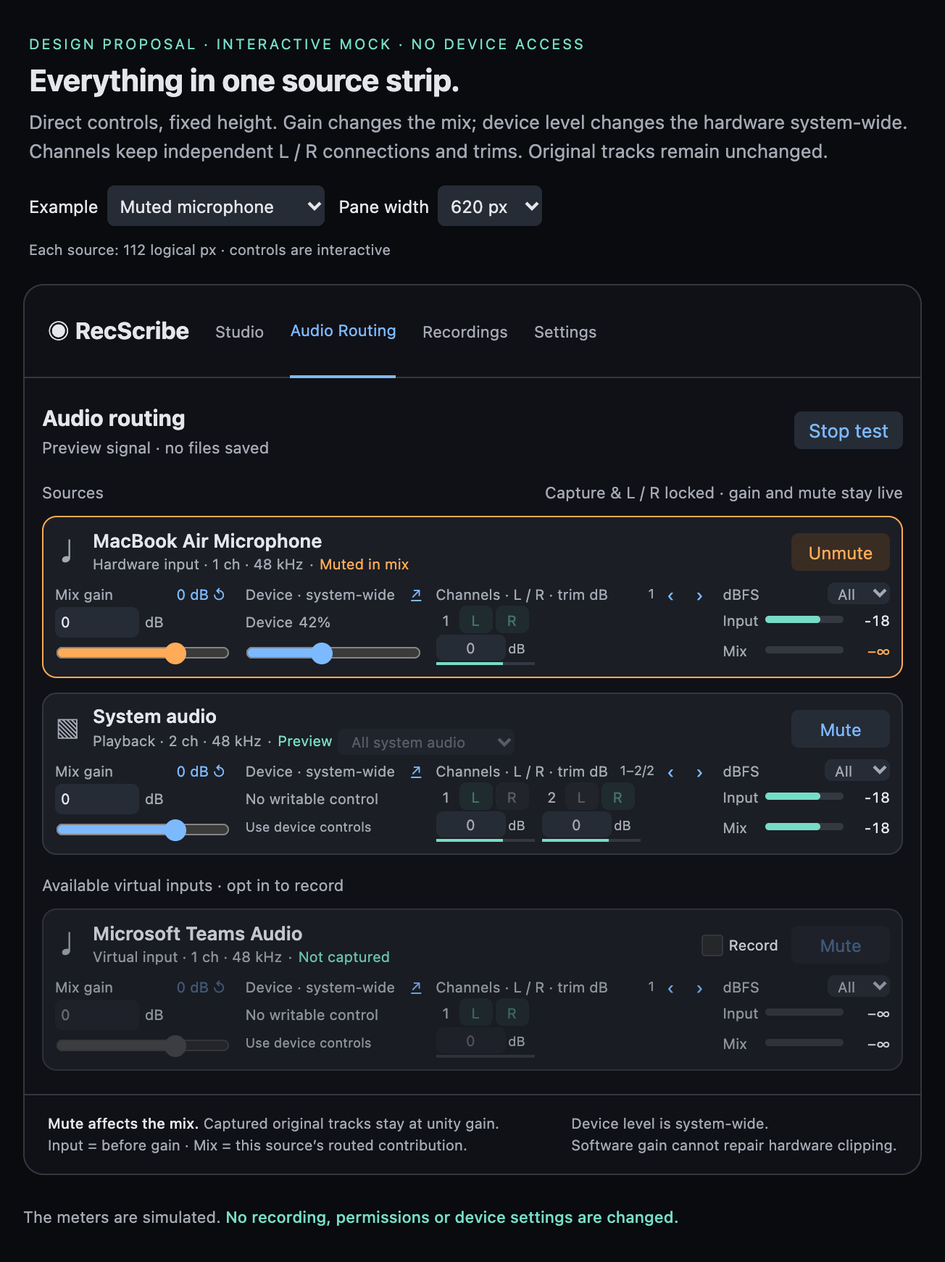
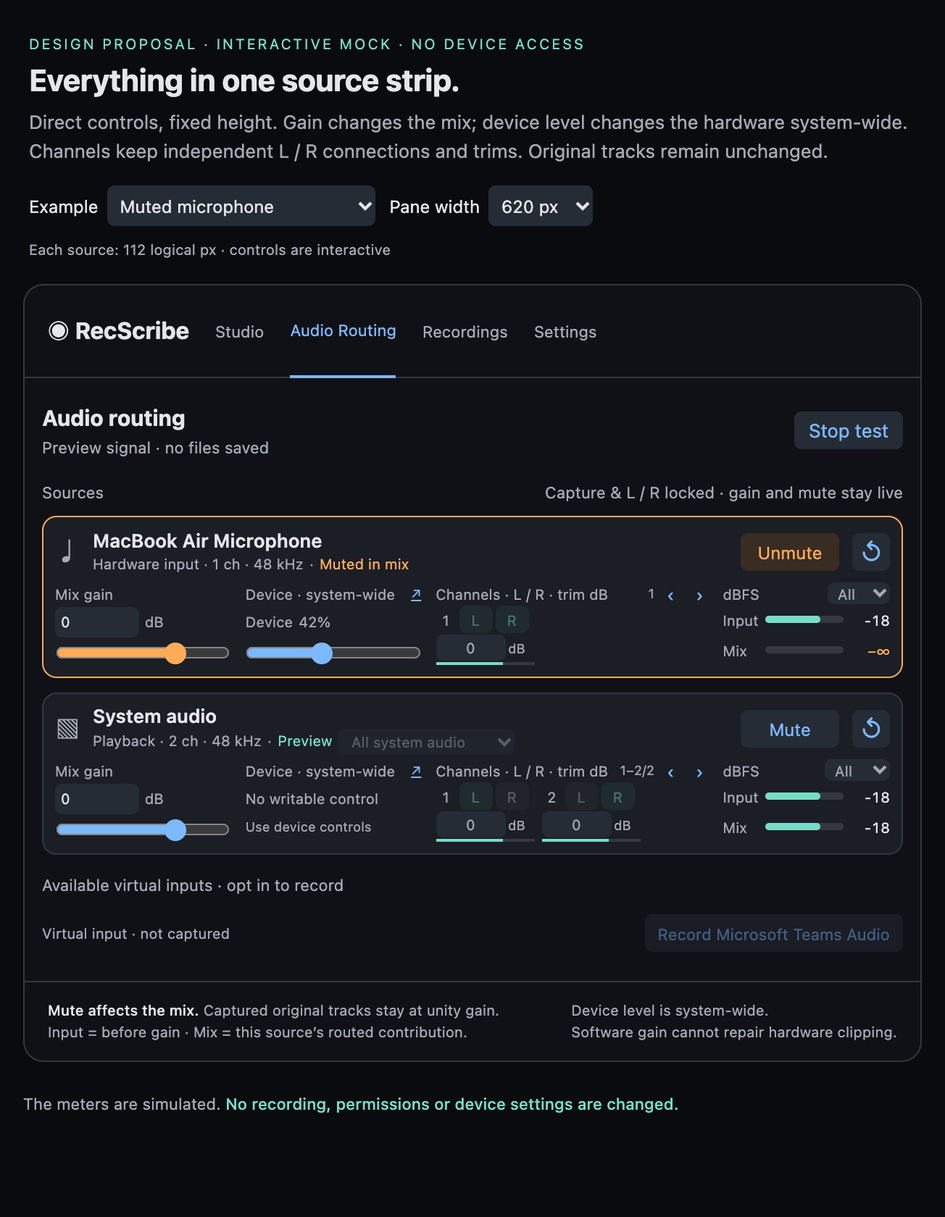
docs(design): align compact sources with PR 78 capture actions

diff --git a/docs/design-proposals/compact-source-strip/source-strip.html b/docs/design-proposals/compact-source-strip/source-strip.html
@@ -6,15 +6,15 @@
 <style>
 :root{color-scheme:dark;--bg:#101116;--card:#1b1e25;--line:#34373e;--text:#e5e6eb;--dim:#a4a9b4;--blue:#7db9ff;--mint:#77dcc7;--orange:#ffab57}
 *{box-sizing:border-box}body{margin:0;background:#090b0e;color:var(--text);font:13px -apple-system,BlinkMacSystemFont,"Segoe UI",sans-serif}button,input,select{font:inherit;color:inherit}button,select,input[type=number]{background:#262c36;border:1px solid transparent;border-radius:5px}button,select{cursor:pointer}button{height:26px;padding:0 9px;color:var(--blue)}button:hover{background:#303b4a}button:focus-visible,input:focus-visible,select:focus-visible,a:focus-visible,[tabindex]:focus-visible{outline:2px solid var(--blue);outline-offset:2px}button:disabled,input:disabled,select:disabled{cursor:default;opacity:.45}input[type=range]{accent-color:var(--blue);width:100%;height:17px;margin:0;min-width:0}input[type=checkbox]{accent-color:var(--blue)}input[type=number]{font-variant-numeric:tabular-nums;width:58px;height:21px;padding:0 3px;appearance:textfield}input::-webkit-inner-spin-button{appearance:none}select{max-width:100%;height:23px;padding:0 4px}h1,h2,p{margin:0}h1{font-size:21px}h2{font-size:15px}a{color:var(--blue)}
-.design-tools{max-width:1120px;margin:24px auto 18px;padding:0 20px}.eyebrow{font-size:10px;text-transform:uppercase;letter-spacing:1.4px;color:var(--mint);margin-bottom:7px}.design-tools p{color:var(--dim);line-height:1.5;margin:8px 0 14px;max-width:900px}.tool-row{display:flex;gap:10px;align-items:center;flex-wrap:wrap}.tool-row label{display:flex;align-items:center;gap:6px;font-size:12px}.tool-row select{height:28px}.stage{width:1040px;max-width:calc(100% - 32px);margin:0 auto 20px;background:var(--bg);border:1px solid var(--line);border-radius:14px;overflow:hidden}.nav{display:flex;align-items:center;gap:25px;height:64px;padding:0 20px;border-bottom:1px solid var(--line);white-space:nowrap}.brand{font-weight:700;font-size:16px;margin-right:10px}.nav span{font-size:12px;color:var(--dim);height:64px;display:flex;align-items:center}.nav .active{color:var(--blue);border-bottom:2px solid var(--blue)}.header{display:flex;justify-content:space-between;align-items:center;padding:18px 16px 14px;gap:12px}.header p{font-size:11px;color:var(--dim);margin-top:5px}.header button{white-space:nowrap}.sources{padding:0 16px 16px;display:grid;gap:10px}.list-caption{display:flex;justify-content:space-between;font-size:11px;color:var(--dim);margin-top:4px}.source{height:112px;min-width:0;padding:8px 10px;background:var(--card);border:1px solid var(--line);border-radius:10px;display:grid;grid-template-rows:32px 56px;gap:6px}.source.muted{border-color:var(--orange)}.source.offline{border-style:dashed}.source.unused{opacity:.85}.identity{min-width:0;display:flex;align-items:center;gap:9px}.source-icon{color:var(--dim);width:17px;font-size:19px;text-align:center;flex-shrink:0}.name-block{min-width:0;flex:1}.name{display:block;font-weight:600;white-space:nowrap;overflow:hidden;text-overflow:ellipsis;font-size:13px;line-height:17px}.meta{display:flex;gap:6px;align-items:center;white-space:nowrap;overflow:hidden;font-size:10px;line-height:15px;color:var(--dim)}.state{color:var(--mint)}.muted .state,.offline .state{color:var(--orange)}.capture{display:flex;align-items:center;gap:4px;white-space:nowrap;font-size:11px;margin-left:4px}.capture input{width:15px;height:15px;margin:0}.mute{width:68px;flex-shrink:0;font-size:12px}.muted .mute{color:var(--orange);background:#392c23}.controls{display:grid;grid-template-columns:1fr 1fr 1.6fr .94fr;gap:16px;min-width:0}.group{min-width:0;display:flex;flex-direction:column;gap:2px}.group-head{height:13px;font-size:10px;color:var(--dim);display:flex;align-items:center;justify-content:space-between;gap:3px;white-space:nowrap}.reset{height:15px;font-size:10px;padding:0 3px;background:transparent}.number-line{display:flex;align-items:center;gap:4px;height:22px;font-size:10px;color:var(--dim)}.number-line input{color:var(--text)}.sound{font-size:10px;margin-left:auto;white-space:nowrap}.muted .gain input[type=range]{accent-color:var(--orange)}.not-supported{font-size:10px;height:22px;display:flex;align-items:center;color:var(--dim)}.channel-nav{display:flex;gap:2px;align-items:center}.channel-nav button{height:15px;width:18px;padding:0;font-size:12px;background:transparent}.channel-range{font-size:9px;min-width:32px;text-align:right}.channels{height:43px;display:flex;gap:5px;overflow-x:auto;overflow-y:hidden;scrollbar-width:thin;scrollbar-color:#677385 transparent;overscroll-behavior:contain}.channels::-webkit-scrollbar{height:4px}.channels::-webkit-scrollbar-thumb{background:#677385;border-radius:2px}.channel{width:68px;flex-shrink:0;display:grid;grid-template-rows:19px 18px 2px;gap:1px}.routing{display:flex;align-items:center;gap:2px}.channel-id{font-size:10px;width:14px;color:var(--dim);text-align:center}.route{height:19px;width:23px;padding:0;font-size:10px;color:var(--dim);background:#282c34}.route[aria-pressed=true]{color:var(--mint);background:#263c3e}.trim{display:flex;gap:2px;align-items:center;color:var(--dim);font-size:9px}.trim input{width:48px;height:18px;font-size:10px;text-align:center;padding:0}.channel-peak{height:2px;background:#333842}.channel-peak i{display:block;height:100%;background:var(--mint)}.meter-line{display:grid;grid-template-columns:25px 1fr 28px;gap:4px;align-items:center;height:19px;font-size:10px;color:var(--dim)}.meter-line output{text-align:right;font-variant-numeric:tabular-nums;color:var(--text)}.meter{height:5px;background:#343841;border-radius:3px;overflow:hidden}.meter i{height:100%;display:block;background:var(--mint);border-radius:3px}.muted .meter-line.mix output{color:var(--orange)}.subtle{color:var(--dim);font-size:10px}.footer{border-top:1px solid var(--line);padding:12px 16px;display:flex;justify-content:space-between;gap:20px;font-size:10px;color:var(--dim);line-height:1.5}.footer strong{color:var(--text);font-weight:500}.demo-status{max-width:1040px;margin:0 auto 22px;padding:0 16px;font-size:11px;line-height:1.6;color:var(--dim)}.demo-status strong{color:var(--mint);font-weight:500}.unused .controls{pointer-events:none}.unused .controls input,.unused .controls button{opacity:.45}.context-picker{font-size:10px;height:18px;max-width:142px}.level-channel{font-size:10px;height:15px;padding:0 2px;max-width:60px}.hw-channel{font-size:10px;height:20px;max-width:75px}.sound-note{font-size:9px;color:var(--dim);line-height:13px}.help-row{display:flex;gap:6px;align-items:center;height:17px}.help-row button{height:16px;font-size:10px;padding:0 4px}.locked .channel-nav button{opacity:1}
-@media(max-width:700px){.nav{gap:18px;padding:0 16px}.brand{margin-right:0}.controls{gap:10px;grid-template-columns:1fr 1fr 1.55fr .95fr}.source{padding-inline:8px}.sources{padding-inline:12px}.header{padding-inline:12px}.meta{gap:4px}.sound{font-size:9px}.capture{font-size:10px}.footer{gap:12px}.nav span{font-size:11px}.channel-range{min-width:29px}}
+.design-tools{max-width:1120px;margin:24px auto 18px;padding:0 20px}.eyebrow{font-size:10px;text-transform:uppercase;letter-spacing:1.4px;color:var(--mint);margin-bottom:7px}.design-tools p{color:var(--dim);line-height:1.5;margin:8px 0 14px;max-width:900px}.tool-row{display:flex;gap:10px;align-items:center;flex-wrap:wrap}.tool-row label{display:flex;align-items:center;gap:6px;font-size:12px}.tool-row select{height:28px}.stage{width:1040px;max-width:calc(100% - 32px);margin:0 auto 20px;background:var(--bg);border:1px solid var(--line);border-radius:14px;overflow:hidden}.nav{display:flex;align-items:center;gap:25px;height:64px;padding:0 20px;border-bottom:1px solid var(--line);white-space:nowrap}.brand{font-weight:700;font-size:16px;margin-right:10px}.nav span{font-size:12px;color:var(--dim);height:64px;display:flex;align-items:center}.nav .active{color:var(--blue);border-bottom:2px solid var(--blue)}.header{display:flex;justify-content:space-between;align-items:center;padding:18px 16px 14px;gap:12px}.header p{font-size:11px;color:var(--dim);margin-top:5px}.header button{white-space:nowrap}.sources{padding:0 16px 16px;display:grid;gap:10px}.list-caption{display:flex;justify-content:space-between;font-size:11px;color:var(--dim);margin-top:4px}.source{height:112px;min-width:0;padding:8px 10px;background:var(--card);border:1px solid var(--line);border-radius:10px;display:grid;grid-template-rows:32px 56px;gap:6px}.source.muted{border-color:var(--orange)}.source.offline{border-style:dashed}.source.unused{opacity:.85}.identity{min-width:0;display:flex;align-items:center;gap:9px}.source-icon{color:var(--dim);width:17px;font-size:19px;text-align:center;flex-shrink:0}.name-block{min-width:0;flex:1}.name{display:block;font-weight:600;white-space:nowrap;overflow:hidden;text-overflow:ellipsis;font-size:13px;line-height:17px}.meta{display:flex;gap:6px;align-items:center;white-space:nowrap;overflow:hidden;font-size:10px;line-height:15px;color:var(--dim)}.state{color:var(--mint)}.muted .state,.offline .state{color:var(--orange)}.capture-action{white-space:nowrap;font-size:11px;height:26px;padding:0 8px;flex-shrink:0}.identity>.reset{height:26px;width:26px;padding:0;flex-shrink:0;font-size:17px;background:#262c36}.unused-input{min-width:0;display:flex;align-items:center;justify-content:space-between;gap:12px;padding:4px 0}.unused-input .capture-action{max-width:100%;height:auto;min-height:26px;white-space:normal;text-align:left}.unused-input .subtle{flex-shrink:0}.mute{width:68px;flex-shrink:0;font-size:12px}.muted .mute{color:var(--orange);background:#392c23}.controls{display:grid;grid-template-columns:1fr 1fr 1.6fr .94fr;gap:16px;min-width:0}.group{min-width:0;display:flex;flex-direction:column;gap:2px}.group-head{height:13px;font-size:10px;color:var(--dim);display:flex;align-items:center;justify-content:space-between;gap:3px;white-space:nowrap}.reset{height:15px;font-size:10px;padding:0 3px;background:transparent}.number-line{display:flex;align-items:center;gap:4px;height:22px;font-size:10px;color:var(--dim)}.number-line input{color:var(--text)}.sound{font-size:10px;margin-left:auto;white-space:nowrap}.muted .gain input[type=range]{accent-color:var(--orange)}.not-supported{font-size:10px;height:22px;display:flex;align-items:center;color:var(--dim)}.channel-nav{display:flex;gap:2px;align-items:center}.channel-nav button{height:15px;width:18px;padding:0;font-size:12px;background:transparent}.channel-range{font-size:9px;min-width:32px;text-align:right}.channels{height:43px;display:flex;gap:5px;overflow-x:auto;overflow-y:hidden;scrollbar-width:thin;scrollbar-color:#677385 transparent;overscroll-behavior:contain}.channels::-webkit-scrollbar{height:4px}.channels::-webkit-scrollbar-thumb{background:#677385;border-radius:2px}.channel{width:68px;flex-shrink:0;display:grid;grid-template-rows:19px 18px 2px;gap:1px}.routing{display:flex;align-items:center;gap:2px}.channel-id{font-size:10px;width:14px;color:var(--dim);text-align:center}.route{height:19px;width:23px;padding:0;font-size:10px;color:var(--dim);background:#282c34}.route[aria-pressed=true]{color:var(--mint);background:#263c3e}.trim{display:flex;gap:2px;align-items:center;color:var(--dim);font-size:9px}.trim input{width:48px;height:18px;font-size:10px;text-align:center;padding:0}.channel-peak{height:2px;background:#333842}.channel-peak i{display:block;height:100%;background:var(--mint)}.meter-line{display:grid;grid-template-columns:25px 1fr 28px;gap:4px;align-items:center;height:19px;font-size:10px;color:var(--dim)}.meter-line output{text-align:right;font-variant-numeric:tabular-nums;color:var(--text)}.meter{height:5px;background:#343841;border-radius:3px;overflow:hidden}.meter i{height:100%;display:block;background:var(--mint);border-radius:3px}.muted .meter-line.mix output{color:var(--orange)}.subtle{color:var(--dim);font-size:10px}.footer{border-top:1px solid var(--line);padding:12px 16px;display:flex;justify-content:space-between;gap:20px;font-size:10px;color:var(--dim);line-height:1.5}.footer strong{color:var(--text);font-weight:500}.demo-status{max-width:1040px;margin:0 auto 22px;padding:0 16px;font-size:11px;line-height:1.6;color:var(--dim)}.demo-status strong{color:var(--mint);font-weight:500}.unused .controls{pointer-events:none}.unused .controls input,.unused .controls button{opacity:.45}.context-picker{font-size:10px;height:18px;max-width:142px}.level-channel{font-size:10px;height:15px;padding:0 2px;max-width:60px}.hw-channel{font-size:10px;height:20px;max-width:75px}.sound-note{font-size:9px;color:var(--dim);line-height:13px}.help-row{display:flex;gap:6px;align-items:center;height:17px}.help-row button{height:16px;font-size:10px;padding:0 4px}.locked .channel-nav button{opacity:1}
+@media(max-width:700px){.nav{gap:18px;padding:0 16px}.brand{margin-right:0}.controls{gap:10px;grid-template-columns:1fr 1fr 1.55fr .95fr}.source{padding-inline:8px}.sources{padding-inline:12px}.header{padding-inline:12px}.meta{gap:4px}.sound{font-size:9px}.capture-action{font-size:11px}.footer{gap:12px}.nav span{font-size:11px}.channel-range{min-width:29px}}
 </style>
 <div class="design-tools">
   <div class="eyebrow">Design proposal · Interactive mock · No device access</div>
   <h1>Everything in one source strip.</h1>
   <p>Direct controls, fixed height. Gain changes the mix; device level changes the hardware system-wide. Channels keep independent L / R connections and trims. Original tracks remain unchanged.</p>
   <div class="tool-row">
-    <label>Example <select id="scenario"><option value="overview">Everyday sources</option><option value="muted">Muted microphone</option><option value="multichannel">32-channel interface</option><option value="offline">Source reconnecting</option><option value="recording">Recording in progress</option></select></label>
+    <label>Example <select id="scenario"><option value="overview">Everyday sources</option><option value="muted">Muted microphone</option><option value="multichannel">32-channel interface</option><option value="virtual">Virtual capture actions · idle</option><option value="offline">Source reconnecting</option><option value="recording">Recording in progress</option></select></label>
     <label>Pane width <select id="width"><option value="1040">1040 px</option><option value="760">760 px</option><option value="620">620 px</option></select></label>
     <span class="subtle">Each source: 112 logical px · controls are interactive</span>
   </div>
@@ -41,6 +41,7 @@ function setup(scenario) {
   if(scenario==='muted') sources[0].muted=true;
   if(scenario==='multichannel') sources=[source('interface','Studio interface · 32-channel aggregate','Aggregate input',32,true,{perChannelHW:true,hwChannel:1,raw:-12}),...sources.slice(1)];
   if(scenario==='multichannel'){sources[2].captured=true;sources[2].muted=true;}
+  if(scenario==='virtual'){sources[2].captured=true;sources[2].muted=true;testing=false;}
   if(scenario==='offline') sources[0].offline=true;
   render();
 }
@@ -51,33 +52,44 @@ function card(s) {
   const hwLabel=s.perChannelHW?`<select class="hw-channel" aria-label="${e(s.name)} hardware channel">${Array.from({length:s.count},(_,i)=>`<option value="${i+1}">Ch ${i+1}</option>`).join('')}</select>`:'<span>Device</span>';
   return `<article class="source ${s.muted?'muted':''} ${s.offline?'offline':''} ${!s.captured?'unused':''} ${locked?'locked':''}" data-id="${s.id}" aria-label="${e(s.name)}">
     <div class="identity"><span class="source-icon" aria-hidden="true">${s.id==='system'?'▧':'♩'}</span><div class="name-block"><span class="name" title="${e(s.name)}">${e(s.name)}</span><div class="meta"><span>${e(s.kind)} · ${s.count} ch · 48 kHz</span><span>·</span><span class="state">${state}</span>${s.id==='system'?'<select class="context-picker" aria-label="Playback source" '+(locked?'disabled':'')+'><option>All system audio</option><option>Browser · app audio</option></select>':''}</div></div>
-    ${s.virtual?`<label class="capture" title="Record this virtual input and keep its original track"><input class="capture-check" type="checkbox" aria-label="Record ${e(s.name)}" ${s.captured?'checked':''} ${locked?'disabled':''}>Record</label>`:''}
-    <button class="mute" aria-label="${s.muted?'Unmute':'Mute'} ${e(s.name)} in mix" aria-pressed="${s.muted}" ${off?'disabled':''}>${s.muted?'Unmute':'Mute'}</button></div>
+    ${s.virtual?captureButton(s):''}
+    <button class="mute" aria-label="${s.muted?'Unmute':'Mute'} ${e(s.name)} in mix" aria-pressed="${s.muted}" ${off?'disabled':''}>${s.muted?'Unmute':'Mute'}</button><button class="reset" title="Reset gain &amp; mute" aria-label="Reset gain &amp; mute for ${e(s.name)}">↺</button></div>
     <div class="controls">
-      <div class="group gain"><div class="group-head">Mix gain <button class="reset" title="Reset mix gain only; preserve mute and channels" aria-label="Reset ${e(s.name)} mix gain to zero">0 dB ↺</button></div><label class="number-line"><input class="gain-number" type="number" min="-60" max="24" step="0.1" value="${s.gain}" aria-label="${e(s.name)} mix gain in decibels" ${off?'disabled':''}>dB</label><input class="gain-slider" type="range" min="-60" max="24" step="0.1" value="${s.gain}" aria-label="${e(s.name)} mix gain" ${off?'disabled':''}></div>
+      <div class="group gain"><div class="group-head">Mix gain</div><label class="number-line"><input class="gain-number" type="number" min="-60" max="24" step="0.1" value="${s.gain}" aria-label="${e(s.name)} mix gain in decibels" ${off?'disabled':''}>dB</label><input class="gain-slider" type="range" min="-60" max="24" step="0.1" value="${s.gain}" aria-label="${e(s.name)} mix gain" ${off?'disabled':''}></div>
       <div class="group hardware"><div class="group-head">Device · system-wide <a href="#" class="sound" aria-label="Open Sound settings for ${e(s.name)}" title="Open macOS Sound settings">↗</a></div>${s.hardware?`<div class="number-line">${hwLabel}<output class="hardware-value">${s.hw}%</output></div><input class="hw-slider" type="range" min="0" max="100" step="1" value="${s.hw}" aria-label="${e(s.name)} system-wide hardware input level" ${hwOff?'disabled':''}>`:'<div class="not-supported">No writable control</div><div class="sound-note">Use device controls</div>'}</div>
       <div class="group channel-group"><div class="group-head"><span>Channels · L / R · trim dB</span><span class="channel-nav"><span class="channel-range"></span><button class="prev" aria-label="Previous channels for ${e(s.name)}">‹</button><button class="next" aria-label="Next channels for ${e(s.name)}">›</button></span></div><div class="channels" tabindex="0" aria-label="${e(s.name)} channels, scroll horizontally for all ${s.count}">${s.routes.map((r,i)=>`<div class="channel" data-channel="${i}"><div class="routing"><span class="channel-id" title="Channel ${i+1}">${i+1}</span><button class="route left" aria-label="${e(s.name)} channel ${i+1} to left" aria-pressed="${r.l}" ${locked||off||s.offline?'disabled':''}>L</button><button class="route right" aria-label="${e(s.name)} channel ${i+1} to right" aria-pressed="${r.r}" ${locked||off||s.offline?'disabled':''}>R</button></div><label class="trim"><input type="number" min="-60" max="24" step="0.1" value="${r.trim}" aria-label="${e(s.name)} channel ${i+1} trim in decibels" ${off?'disabled':''}>dB</label><span class="channel-peak" title="Channel ${i+1} input peak"><i></i></span></div>`).join('')}</div></div>
       <div class="group levels"><div class="group-head">dBFS <select class="level-channel" aria-label="${e(s.name)} level channel"><option value="all">All</option>${s.routes.map((_,i)=>`<option value="${i}">Ch ${i+1}</option>`).join('')}</select></div><div class="meter-line raw"><span>Input</span><span class="meter"><i></i></span><output>−∞</output></div><div class="meter-line mix"><span>Mix</span><span class="meter"><i></i></span><output>−∞</output></div></div>
     </div></article>`;
 }
+function captureButton(s) {
+  const name=escapeHTML(s.name),title=s.captured?"Don't record":'Record '+s.name;
+  const limited=!s.captured&&sources.filter(x=>x.captured&&x.id!=='system').length>=8;
+  return `<button class="capture-action" aria-label="${escapeHTML((s.captured?"Don't record":'Record')+' '+s.name)}" title="${s.captured?'Exclude this virtual device from capture.':'Include this virtual device in capture and preserve its original source track.'}" ${isLocked()||limited||s.offline?'disabled':''}>${escapeHTML(title)}</button>`;
+}
+function unusedInput(s) {
+  return `<div class="unused-input" data-id="${s.id}" aria-label="${escapeHTML(s.name)} · not captured"><span class="subtle">Virtual input · not captured</span>${captureButton(s)}</div>`;
+}
 function render() {
   const selected=sources.filter(s=>s.captured), unused=sources.filter(s=>!s.captured);
-  $('#sources').innerHTML='<div class="list-caption"><span>Sources</span><span>'+ (isLocked()?'Capture & L / R locked · gain and mute stay live':'All controls available')+'</span></div>'+selected.map(card).join('')+(unused.length?'<div class="list-caption"><span>Available virtual inputs · opt in to record</span></div>'+unused.map(card).join(''):'');
+  $('#sources').innerHTML='<div class="list-caption"><span>Sources</span><span>'+ (isLocked()?'Capture & L / R locked · gain and mute stay live':'All controls available')+'</span></div>'+selected.map(card).join('')+(unused.length?'<div class="list-caption"><span>Available virtual inputs · opt in to record</span></div>'+unused.map(unusedInput).join(''):'');
   $('#activity').textContent=recording?'Recording · original source tracks preserved':testing?'Preview signal · no files saved':'Ready · start a test to check signal';
   $('#test').textContent=recording?'Stop recording':testing?'Stop test':'Test audio';
   document.querySelectorAll('.source').forEach(el=>bind(el,sources.find(s=>s.id===el.dataset.id)));
+  document.querySelectorAll('.capture-action').forEach(button=>button.onclick=()=>{
+    const id=button.closest('[data-id]').dataset.id,s=sources.find(s=>s.id===id);s.captured=!s.captured;render();
+    document.querySelector(`[data-id="${id}"] .capture-action`).focus();
+  });
 }
 function bind(el,s) {
   const q=x=>el.querySelector(x);
   q('.mute').onclick=()=>{s.muted=!s.muted;el.classList.toggle('muted',s.muted);q('.mute').textContent=s.muted?'Unmute':'Mute';q('.mute').setAttribute('aria-pressed',s.muted);q('.mute').setAttribute('aria-label',`${s.muted?'Unmute':'Mute'} ${s.name} in mix`);q('.state').textContent=s.offline?(s.muted?'Reconnecting · muted':'Reconnecting'):s.muted?'Muted in mix':recording?'Recording':testing?'Preview':'Ready';meters(el,s);};
   function gain(value){const n=Number(value);if(!Number.isFinite(n))return;s.gain=Math.min(24,Math.max(-60,n));q('.gain-number').value=s.gain;q('.gain-slider').value=s.gain;meters(el,s);}
   q('.gain-slider').oninput=e=>gain(e.target.value);q('.gain-number').onchange=e=>gain(e.target.value);
-  q('.reset').disabled=!s.captured;q('.reset').onclick=()=>gain(0);
+  q('.reset').disabled=!s.captured;q('.reset').onclick=()=>{s.gain=0;s.muted=false;s.routes.forEach(r=>r.trim=0);render();document.querySelector(`[data-id="${s.id}"] .reset`).focus();};
   if(q('.hw-slider'))q('.hw-slider').oninput=e=>{s.hw=+e.target.value;q('.hardware-value').textContent=s.hw+'%';};
   if(q('.hw-channel')){s.hardwareValues??=Array(s.count+1).fill(42);q('.hw-channel').value=s.hwChannel;q('.hw-channel').onchange=e=>{s.hwChannel=+e.target.value;s.hw=s.hardwareValues[s.hwChannel];q('.hw-slider').value=s.hw;q('.hardware-value').textContent=s.hw+'%';};q('.hw-slider').oninput=e=>{s.hw=+e.target.value;s.hardwareValues[s.hwChannel]=s.hw;q('.hardware-value').textContent=s.hw+'%';};}
   q('.sound').onclick=e=>{e.preventDefault();$('#demo-status').textContent='Prototype: in the app this shortcut opens macOS Sound settings. No device settings were changed.';};
   q('.level-channel').value=s.meterChannel??'all';q('.level-channel').onchange=e=>{s.meterChannel=e.target.value;meters(el,s);};
-  const capture=q('.capture-check');if(capture)capture.onchange=e=>{s.captured=e.target.checked;render();document.querySelector(`[data-id="${s.id}"] .capture-check`).focus();};
   q('.context-picker')?.addEventListener('change',e=>{s.playbackChoice=e.target.value;$('#demo-status').textContent='Prototype: playback choice updated to '+s.playbackChoice+'. No capture was started.';});
   if(q('.context-picker')&&s.playbackChoice)q('.context-picker').value=s.playbackChoice;
   el.querySelectorAll('.channel').forEach(ch=>{const i=+ch.dataset.channel,r=s.routes[i];for(const [cls,key] of [['left','l'],['right','r']])ch.querySelector('.'+cls).onclick=e=>{r[key]=!r[key];e.target.setAttribute('aria-pressed',r[key]);meters(el,s);};ch.querySelector('input').onchange=e=>{r.trim=Math.max(-60,Math.min(24,+e.target.value||0));e.target.value=r.trim;meters(el,s);};});

diff --git a/docs/design-proposals/compact-source-strip/README.md b/docs/design-proposals/compact-source-strip/README.md
@@ -1,16 +1,19 @@
 # Kompakte Quellensteuerung ohne Auf-/Zuklappen
 
-Designvorschlag für ein neues Umsetzungsticket. Ausgangspunkt: `origin/main` bei
-`265d47b` (inklusive virtueller Eingänge per Opt-in aus PR #76). Ergänzt #59 und
-bezieht die Anforderung aus [#77](https://github.com/moreaki/recscribe/issues/77)
-ein. #77 kann unabhängig als kleiner bestehender UI-Fix umgesetzt werden.
+Designvorschlag für [#79](https://github.com/moreaki/recscribe/issues/79) in
+[Draft-PR #80](https://github.com/moreaki/recscribe/pull/80). Ausgangspunkt:
+`origin/main` bei `265d47b` (virtuelle Eingänge per Opt-in aus PR #76), ergänzt um
+die UI-Konventionen aus [PR #78](https://github.com/moreaki/recscribe/pull/78)
+bei `6d85193` (gemergt). Ergänzt #59 und berücksichtigt damit
+auch die in PR #78 bearbeitete Anforderung aus #77.
 
 ## Entwurf ansehen
 
 - [Interaktiver Prototyp](source-strip.html): herunterladen und lokal im Browser öffnen;
   eine einzelne HTML-Datei ohne externe Abhängigkeiten oder Netzwerkzugriffe.
 - [Übersicht](overview.png), [Mute](muted.png), [32 Kanäle](multichannel.png),
-  [schmale Ansicht](narrow.png), [Wiederanbindung](reconnecting.png).
+  [schmale Ansicht](narrow.png), [Wiederanbindung](reconnecting.png),
+  [virtuelle Aufnahmeaktionen im Idle-Zustand](virtual-input.png).
 - [Ausgangszustand aus dem Nutzer-Screenshot](before.png).
 
 Die HTML-Datei simuliert Pegel und Zustände. Sie greift auf keine Audiogeräte zu.
@@ -24,13 +27,21 @@ werden durch diesen Vorschlag geändert.
 Eine Quellenkarte hat zwei feste Zeilen:
 
 1. Gerätename, Typ, Kanalzahl, Samplerate und Status; rechts ein Mute/Unmute-Button.
-   Virtuelle Eingänge haben zusätzlich die direkt sichtbare Checkbox **Record**.
+   Ausgewählte virtuelle Eingänge haben davor **Don't record** wie in PR #78.
+   Daneben ist **↺** für **Reset gain & mute** direkt erreichbar.
 2. Vier klar getrennte Gruppen: **Mix gain**, **Device · system-wide**,
    **Channels · L / R · trim dB**, **dBFS** mit Input- und Mixpegel.
 
 Kein Disclosure-Pfeil, keine verschachtelten Disclosure-Gruppen, kein „Done“ und
 kein Menü als Zugang zu einem wesentlichen Quellenregler. Ein normaler Picker
 für App-/Systemauswahl oder Kanalbezug ist weiterhin sinnvoll.
+
+Nicht ausgewählte virtuelle Eingänge erscheinen gemäß PR #78 zuletzt in
+„Available virtual inputs“, mit **Record <Gerätename>**. Sie benötigen keine
+deaktivierte Vollkarte. Die Aktionen bleiben in der bestehenden Kopfzeile der
+ausgewählten Quelle, ohne zusätzliche Zeile oder Padding. Die in PR #78
+entfernten deaktivierten Erklärungseinträge werden nicht wieder eingeführt;
+der Hinweis auf Mix und Originalspuren steht einmal im Routing-Footer.
 
 Der Mock verwendet **112 logische CSS-Pixel** Kartenhöhe bei 620, 760 und 1040 px
 Pane-Breite. Das ist ein prüfbarer Layoutvorschlag, keine gemessene Gleichheit
@@ -44,9 +55,9 @@ starren Pixelvorgabe. Bedienelemente nicht zur Einhaltung der Höhe abschneiden.
 | Bereich | Direkt erreichbare Funktionen |
 | --- | --- |
 | Identität | Vollständiger Quellenname zugänglich, Typ, Kanalzahl, Rate; bei langen Namen Ellipse und vollständiger Tooltip/Accessibility-Name. Bei fehlender Rate kein erfundener Wert. |
-| Aufnahmeauswahl | Physische Eingänge gemäß bestehender automatischer Auswahl; virtuelle Eingänge nur per explizitem **Record**-Opt-in. Vorhandene Limits (acht Inputs) und interne Gerätefilter beibehalten. |
+| Aufnahmeauswahl | Physische Eingänge gemäß bestehender automatischer Auswahl; virtuelle Eingänge per **Record <Gerätename>** unten in der unbenutzten Gruppe. **Don't record** oben neben Mute schließt ausgewählte virtuelle Eingänge wieder aus. Vorhandene Limits (acht Inputs), Capture-Sperren und interne Gerätefilter beibehalten. |
 | Mute | Ein Button mit festem Platzbedarf; sichtbarer Text plus orangefarbener Rand/Status. „Mute im Mix“ deaktiviert die Quelle nicht für die Aufnahme. |
-| Software-Gain | Slider und editierbarer dB-Wert, Bereich −60 bis +24 dB; vorhandenes native Snap-/Feinsteuerungsverhalten erhalten. **0 dB ↺** setzt nur den Quellen-Gain zurück, ohne Mute, Routing, Kanaltrims oder Hardware zu ändern. |
+| Software-Gain | Slider und editierbarer dB-Wert, Bereich −60 bis +24 dB; vorhandenes native Snap-/Feinsteuerungsverhalten erhalten. **↺ / Reset gain & mute** behält die vorhandene Aktion aus PR #78 bei: Quellen-Gain und Kanaltrims auf 0 dB, Mute aus. Aufnahmeauswahl, L/R-Verbindungen und Hardwarepegel bleiben erhalten. Tooltip und Accessibility-Name benennen den gesamten Effekt. |
 | Kanalrouting | Pro Kanal unabhängige L/R-Tasten, also links, rechts, beide oder weder noch; Kanaltrim direkt als dB-Wert editierbar. Kanalbezeichnungen statt ausschließlich Nummern zugänglich machen. |
 | Hardwarepegel | Klar als **system-wide** getrennt vom Mix. Nur tatsächlich vorhandene schreibbare Master-/Kanalregler anbieten. Bei Kanalreglern direkt sichtbarer Kanalpicker mit dem Wert des gewählten Kanals. Sound-Settings-Verknüpfung bleibt erreichbar. |
 | Nicht unterstützte Hardware | „No writable control“ statt eines wirkungslosen Sliders; manuelle Hardwarebedienung/Sound Settings nennen. Keine erfundenen Masterregler. |
@@ -83,8 +94,9 @@ Stereo-Summing-/Averaging-Verfahrens.
 - **Muted:** Inputpegel läuft weiter, Mixbeitrag ist null; Status/Rand wechseln,
   Höhe und Reglerpositionen bleiben gleich. Einstellungen der Quelle bleiben erhalten.
 - **Virtueller Eingang nicht ausgewählt:** steht in „Available virtual inputs“;
-  **Record** direkt erreichbar, Mixregler als gespeicherte Werte sichtbar und
-  deaktiviert. Opt-out/Opt-in erhält Gain, Mute und Kanalrouting.
+  **Record <Gerätename>** direkt erreichbar. Die schlanke Aktionszeile zeigt
+  keine unbedienbaren Mixregler. **Don't record** verschiebt die Quelle aus der
+  ausgewählten Liste hierhin. Opt-out/Opt-in erhält Gain, Mute und Kanalrouting.
 - **Unterbrochen:** Quelle mit stabilem Namen und Einstellungen behalten,
   „Reconnecting“ zeigen und Hardware-/Livezugriff sperren. Software-Mute/Gain
   für die nächste Wiederanbindung weiterhin setzen können. Eine Unterbrechung
@@ -108,8 +120,11 @@ Stereo-Summing-/Averaging-Verfahrens.
   Pane-Breite; kein horizontaler Scroll der gesamten Ansicht.
 - [ ] Mute, Aufnahmeauswahl, Software-Gain, Kanaltrims und Hardwarepegel bleiben
   semantisch unabhängig. Keine bewusste Nutzereinstellung wird überschrieben.
-- [ ] #77: Aufnahme-Checkbox auch bei ausgewählten virtuellen Eingängen direkt
-  sichtbar; Opt-out verschiebt in die unbenutzte Gruppe, Opt-in stellt Werte wieder her.
+- [ ] #77 / PR #78: **Don't record** bei ausgewählten virtuellen Eingängen neben
+  Mute, ohne zusätzliche Aktionszeile. **Record <Gerätename>** in der unbenutzten
+  Gruppe am Ende; Opt-in stellt gespeicherte Werte wieder her. Keine Checkboxen.
+- [ ] **Reset gain & mute** behält seine vorhandene kombinierte Wirkung; keine
+  deaktivierten Erklärtexte in Quellen-Aktionen. Originalspuren einmal im Footer erklären.
 - [ ] Meter und Status bleiben ohne Aufklappen während Tests/Aufnahmen sichtbar;
   Raw-Signal, Nullbeitrag durch Mute, echte Stille und fehlende Daten unterscheidbar.
 - [ ] Vorhandene Quellennamen, Kanalnamen, Playback-Optionen, Hardwarekanalregler,
@@ -117,7 +132,8 @@ Stereo-Summing-/Averaging-Verfahrens.
 - [ ] Aufnahme-/Test-Sperren, Wiederanbindung, Originalspuren und virtuelle Opt-ins
   entsprechen dem aktuellen Capture-Modell; Redesign erzeugt keine neue Quelle.
 - [ ] Tastatur und VoiceOver prüfen: benannte Regler, sichtbarer Fokus,
-  Kanal-Scroll folgt Fokus, Mute/Record getrennt aktivierbar, Zustände nicht nur Farbe.
+  Kanal-Scroll folgt Fokus, Mute und Aufnahmeaktionen getrennt aktivierbar,
+  Zustände nicht nur Farbe.
 - [ ] Native Screenshots für Normal, Muted, Test, Recording, Offline, schmale
   Pane, langen Namen, fehlende Hardwaresteuerung und 32 Kanäle dokumentieren.
 
@@ -125,10 +141,10 @@ Stereo-Summing-/Averaging-Verfahrens.
 
 `verify.cjs` verwendet Playwright mit lokal installiertem Chrome. Es prüft feste
 112-px-Höhe und die Grenzen aller nicht scrollenden Regler bei 620/760/1040 px
-für fünf Zustände, Gain-Synchronisation/Reset, Mute bei weiter vorhandenem
+für sechs Zustände, Gain-Synchronisation/kombinierten Reset, Mute bei weiter vorhandenem
 Inputsignal, unabhängige L/R-Tasten, gespeicherte virtuelle Opt-ins, Capture-
 Sperren und Erreichbarkeit von Kanal 32 samt Hardware-Kanalwahl. Es erzeugt die
-fünf PNGs und meldet Scriptfehler. Das ersetzt keinen nativen Funktionstest.
+sechs PNGs und meldet Scriptfehler. Das ersetzt keinen nativen Funktionstest.
 
 ```sh
 # Playwright außerhalb des Repos installieren, sofern noch nicht vorhanden:
